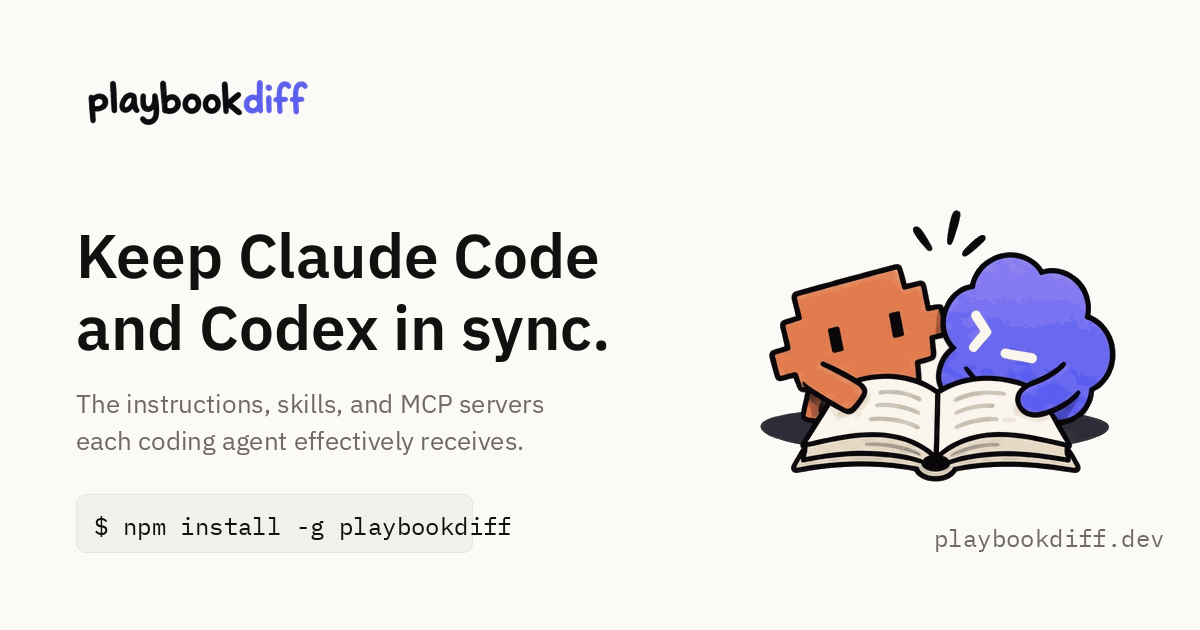
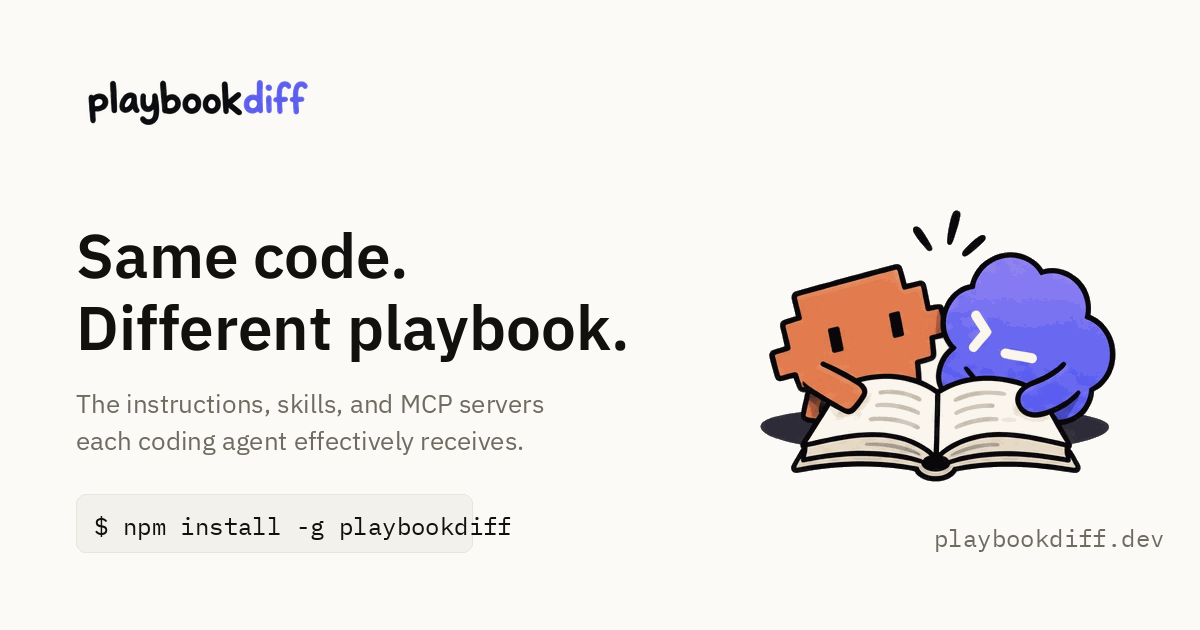
feat(website): tighten the hero and cut repeated claims
The hero led with a feature statement. It now leads with the paradox the
tool exists for, in four words, with the agent names and the promise in a
two-line lead underneath. The demo moves up roughly 85 pixels as a result
and sits inside the first screen at every width.

"Same code. Different playbook." was the example heading, so that section
names the cause instead of restating the paradox.

Three claims were each made twice on one page. The Action's regression rule
now appears only in the install section, where adoption is decided, and the
FAQ entry that repeated it is gone. The no-network guarantees stay in the
trust section, so the FAQ answer keeps only what it adds. The surfaces
intro no longer restates that files are not configuration.

Regenerates the social card, which bakes the headline.

Changed region(s): [[0.0617, 0.4825, 0.5242, 0.573], [0.0617, 0.3619, 0.4933, 0.4524]]

diff --git a/website/app/page.tsx b/website/app/page.tsx
@@ -62,10 +62,14 @@ export default function Home() {
         <section className="hero container" aria-labelledby="hero-title">
           <div className="hero-copy">
             <p className="eyebrow">Open source. Deterministic. Read-only.</p>
-            <h1 id="hero-title">Keep Claude Code and Codex in sync.</h1>
+            <h1 id="hero-title">
+              Same code.
+              <br />
+              Different playbook.
+            </h1>
             <p className="hero-lead">
-              PlaybookDiff checks the instructions, skills, and MCP configuration each coding agent
-              effectively receives, and catches differences before they land.
+              Claude Code and Codex can read the same files and receive different instructions.
+              PlaybookDiff proves exactly where.
             </p>
             <Command copy label="Run PlaybookDiff against a repository without installing it">
               {`npx ${site.npmPackage} check .`}
@@ -100,10 +104,7 @@ export default function Home() {
             <p>CLI + GitHub Action · 40 seconds</p>
           </div>
           <DemoVideo />
-          <p className="footnote">
-            Recorded against a real repository. <a href="/docs/cli">CLI reference</a> ·{" "}
-            <a href="/docs/action">Action reference</a>
-          </p>
+          <p className="footnote">Recorded against a real repository.</p>
         </section>
 
         <section
@@ -112,15 +113,8 @@ export default function Home() {
           aria-labelledby="example-title"
         >
           <div className="example-heading">
-            <h2 id="example-title">
-              Same code.
-              <br />
-              Different playbook.
-            </h2>
-            <p>
-              Matching files are not matching configuration. Follow the paths to see why the launch
-              location matters.
-            </p>
+            <h2 id="example-title">One launch directory apart.</h2>
+            <p>Matching files are not matching configuration. Follow the paths to see why.</p>
           </div>
 
           <EffectiveScope />
@@ -159,9 +153,10 @@ export default function Home() {
                 <code>{`- uses: actions/checkout@v4\n  with:\n    fetch-depth: 0\n\n- uses: ${site.actionRef}`}</code>
               </pre>
               <p>
-                The Action compares the pull request base against the head and fails only on newly
-                introduced findings, so existing debt stays green. It needs{" "}
-                <code>contents: read</code> and no token.{" "}
+                The Action compares the pull request base against the head and fails only on a
+                finding the change introduced. Divergence common to both revisions is counted and
+                reported, never failed on, so adopting it does not mean fixing your history first.
+                It needs <code>contents: read</code> and no token.{" "}
                 <a href="/docs/action">Action reference</a>.
               </p>
             </article>
@@ -180,7 +175,7 @@ export default function Home() {
             <h2 id="surfaces-title">What it compares.</h2>
             <p>
               PlaybookDiff compiles what each harness effectively receives across three surfaces,
-              then compares those instead of the files.
+              then compares the two compilations.
             </p>
           </div>
 

diff --git a/website/components/faq.tsx b/website/components/faq.tsx
@@ -35,9 +35,8 @@ const questions: { question: string; answer: ReactNode }[] = [
       <p>
         No. It models the documented, fixture-tested discovery rules of each harness and compiles
         the repository configuration each one would receive for a given launch directory and work
-        target. No agent, model, or MCP server is involved in a comparison. The rules it models, and
-        the official documentation behind them, are written down in the{" "}
-        <a href="/docs/harnesses/claude">Claude Code</a> and{" "}
+        target. The rules it models, and the official documentation behind them, are written down in
+        the <a href="/docs/harnesses/claude">Claude Code</a> and{" "}
         <a href="/docs/harnesses/codex">Codex</a> harness specifications.
       </p>
     ),
@@ -47,9 +46,9 @@ const questions: { question: string; answer: ReactNode }[] = [
     answer: (
       <>
         <p>
-          No. Analysis is local and makes no network requests: no model call, no API key, no MCP
-          connection, no GitHub API, and no Git fetch. Nothing from the repository is uploaded, and
-          there is no PlaybookDiff service to upload it to.
+          No. There is no PlaybookDiff service to upload anything to, and the analysis never opens a
+          connection at all: no GitHub API, no Git fetch, no MCP connection. Nothing from the
+          repository leaves the machine.
         </p>
         <p>
           Secrets are never resolved. <code>${"{VAR}"}</code> stays symbolic, a configured literal
@@ -82,18 +81,6 @@ const questions: { question: string; answer: ReactNode }[] = [
         worded prose is the common unknown: PlaybookDiff can prove two instruction bodies differ,
         not that they conflict. Unknowns are informational and never fail CI.{" "}
         <a href="/docs/comparison">The comparison specification</a> has the rules.
-      </p>
-    ),
-  },
-  {
-    question: "Will differences we already have break CI?",
-    answer: (
-      <p>
-        No. The GitHub Action compares the pull request base against the head and fails only on an
-        actionable finding the candidate <em>introduced</em>. Pre-existing divergence common to both
-        revisions is counted and reported, never failed on, so adopting PlaybookDiff does not
-        require fixing your history first. <a href="/docs/action">Pass/fail behaviour</a> covers
-        every outcome.
       </p>
     ),
   },

diff --git a/website/scripts/generate-og-image.py b/website/scripts/generate-og-image.py
@@ -35,8 +35,8 @@ mascots = Image.open("public/brand/mascots-reading.png").convert("RGBA")
 mascots = mascots.resize((364, 297), Image.LANCZOS)
 card.paste(mascots, (WIDTH - margin - 364, 196), mascots)
 
-draw.text((margin, 214), "Keep Claude Code", font=sans_600, fill=INK)
-draw.text((margin, 286), "and Codex in sync.", font=sans_600, fill=INK)
+draw.text((margin, 214), "Same code.", font=sans_600, fill=INK)
+draw.text((margin, 286), "Different playbook.", font=sans_600, fill=INK)
 draw.text(
     (margin, 386),
     "The instructions, skills, and MCP servers\neach coding agent effectively receives.",
